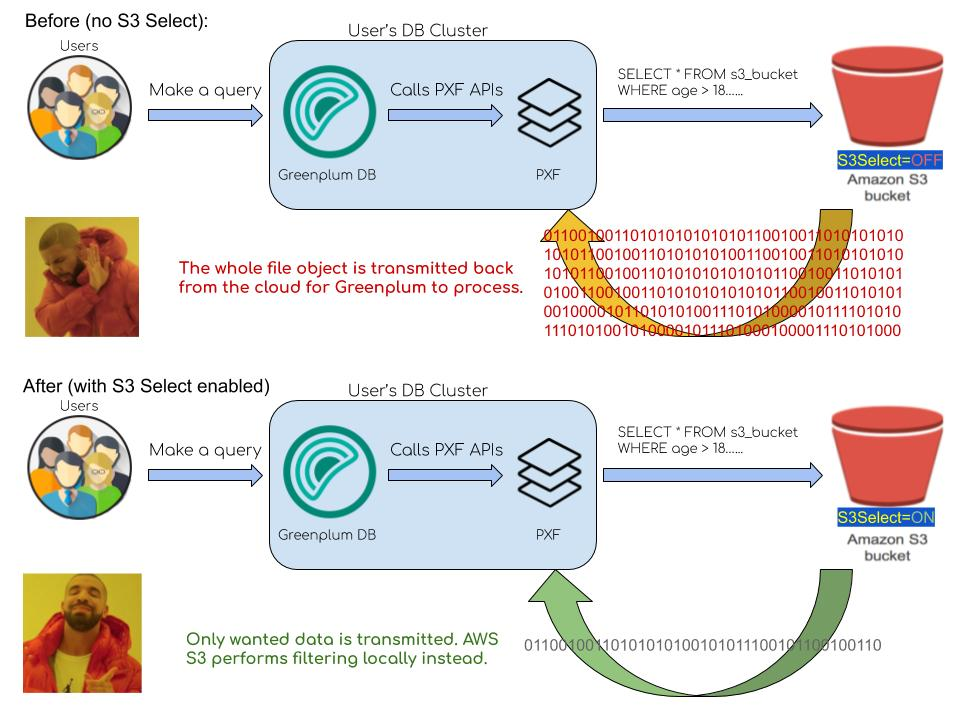
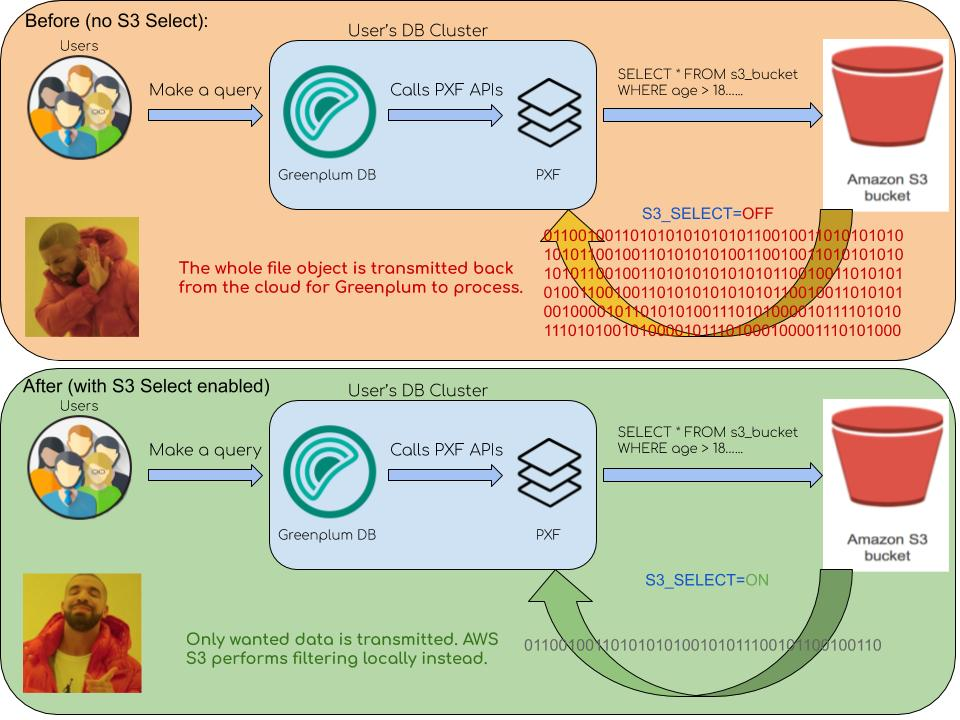
address team feedback for S3 blog on Aug 2

diff --git a/content/post/s3select.md b/content/post/s3select.md
@@ -62,40 +62,91 @@ Once GPDB and PXF are properly configured and running, users can go into Greenpl
 Now under GPDB's command line shell, users can create external tables to access files on S3 object store by providing external table definition and specifying options to enable S3 Select. Here is an example of creating an external table: 
 ```SQL
 CREATE EXTERNAL TABLE orders_from_s3 (id int, name text)
-LOCATION ('pxf://bucket-name/path/in/s3/?PROFILE=s3:parquet&s3_select=ON&SERVER=s3')
+LOCATION ('pxf://bucket-name/path/in/s3/?PROFILE=s3:parquet&S3_SELECT=ON&SERVER=s3')
 FORMAT 'CSV';
 ```
 In above SQL string,
 
 - `CREATE EXTERNAL TABLE orders_from_s3` tells GPDB to create an external table named `orders_from_s3`
 - `(id int, name text)` is the schema of this table
-- `LOCATION ('pxf://bucket-name/path/in/s3/?PROFILE=s3:parquet&s3_select=ON&SERVER=s3')` provides information to GPDB such as:
+- `LOCATION ('pxf://bucket-name/path/in/s3/?PROFILE=s3:parquet&S3_SELECT=ON&SERVER=s3')` provides information to GPDB such as:
   - the protocol `pxf`, 
   - path of the file object on S3 `bucket-name/path/in/s3/`, 
-  - options that PXF needs to process the queries to S3 `?PROFILE=s3:parquet&s3_select=ON&SERVER=s3'`. 
+  - options that PXF needs to process the queries to S3 `?PROFILE=s3:parquet&S3_SELECT=ON&SERVER=s3'`. 
 
-Note: here `s3_select=ON` is the option to enable the S3 Select feature through PXF. Click [here](https://gpdb.docs.pivotal.io/latest/pxf/objstore_text.html#profile_text) for more detail on creating external table to read data in an object store. 
+Note: here `S3_SELECT=ON` is the option to enable the S3 Select feature through PXF. Click [here](https://gpdb.docs.pivotal.io/latest/pxf/objstore_text.html#profile_text) for more detail on creating external table to read data in an object store. 
 
 Now you can make simple SQL queries to your S3 object store and test out S3 Select. For example:
 ```sql
-pxfautomation=# SELECT id, name, FROM orders_from_s3 WHERE id = 3;
+SELECT id, name, FROM orders_from_s3 WHERE id = 3;
 ```
 Here `WHERE id = 3` is the filter clause that PXF will recognize and passing to S3 to utilize S3 Select.
 
 On the other hand, queries like this:
 ```sql
-pxfautomation=# SELECT * FROM orders_from_s3;
+SELECT * FROM orders_from_s3;
 ```
 will not be able to utilize S3 Select as it asks S3 to return all the data.
 
 ## **Performance Comparison**
 {{< responsive-figure src="/images/s3-select/benchmark.png" class="center" >}}
 
-The graph above indicates the results of queries made towards Amazon S3 object store with and without S3 Select feature in effect, for multiple object files of different sizes. The time for each file size is the average number of time results from running the same query multiple times. 
+The graph above indicates the results of queries made towards Amazon S3 object store with and without S3 Select feature in effect, for multiple object files with different sizes. The time consumed to complete query against each file is the average of results from running the same query multiple times. 
 
-It is worth noting that, for queries without S3 Select, the time spent for each of them are quite consistent. While the ones with S3 Select enabled can have a slower performance (comparing to the same query running at later time), the same query gets faster constantly after the first time. This is due to the caching from the S3 store side.
+We created a local table with the following schema:
 
-The benchmarking took place on a cloud cluster of GPDB with 16 segment nodes. For smaller files ranging from 10MB to 5GB, S3 Select did not show significant improvement of query speed as multiple segment nodes helped queries without S3 Select load faster in parallel. Queries showed better performance with S3 Select enabled starting from file size around 50GB. 
+```SQL
+CREATE TABLE lineitem (
+    l_orderkey    BIGINT NOT NULL,
+    l_partkey     BIGINT NOT NULL,
+    l_suppkey     BIGINT NOT NULL,
+    l_linenumber  BIGINT NOT NULL,
+    l_quantity    DECIMAL(15,2) NOT NULL,
+    l_extendedprice  DECIMAL(15,2) NOT NULL,
+    l_discount    DECIMAL(15,2) NOT NULL,
+    l_tax         DECIMAL(15,2) NOT NULL,
+    l_returnflag  CHAR(1) NOT NULL,
+    l_linestatus  CHAR(1) NOT NULL,
+    l_shipdate    DATE NOT NULL,
+    l_commitdate  DATE NOT NULL,
+    l_receiptdate DATE NOT NULL,
+    l_shipinstruct CHAR(25) NOT NULL,
+    l_shipmode     CHAR(10) NOT NULL,
+    l_comment VARCHAR(44) NOT NULL
+) DISTRIBUTED BY (l_partkey);
+```
+
+Then we create different external tables referring to files of different sizes on the S3 store using SQL strings like this:
+
+```SQL
+CREATE EXTERNAL TABLE s3_parquet_no_select (LIKE lineitem)
+LOCATION ('pxf://your/own/s3/file/path/sample.parquet?PROFILE=s3:parquet&SERVER=s3')
+FORMAT 'CSV';
+
+CREATE EXTERNAL TABLE s3_parquet_with_select (LIKE lineitem)
+LOCATION ('pxf://your/own/s3/file/path/sample.parquet?PROFILE=s3:parquet&SERVER=s3&S3_SELECT=ON')
+FORMAT 'CSV';
+```
+
+Finally we use the following SQL string to query against these external tables:
+```SQL
+\timing
+SELECT l_orderkey, l_partkey, l_linenumber FROM s3_parquet_no_select WHERE l_orderkey = 3 and l_partkey = 42970;
+SELECT l_orderkey, l_partkey, l_linenumber FROM s3_parquet_with_select WHERE l_orderkey = 3 and l_partkey = 42970;
+...
+```
+
+It is worth noting that, for queries without S3 Select, the time spent for these files of different sizes are quite consistent. While the queries with S3 Select enabled can have a relatively slower performance for the first time (comparing itself on the same query running at a later time). The same query gets constantly faster after the first time. This is due to the caching from the S3 store side.
+
+The benchmarking took place on a GPDB cluster with 16 segment nodes on the cloud. Therefore, the performance may vary comparing to your deployment. It will be affected by many factors such as different simple SQL queries, network speed, bandwidth, and GPDB's cluster configuration (like how many segment nodes been deployed and so on).
+
+For example, although the following query is against an external table with S3 Select enabled, due to the lack of predicates, column projection, and/or the [LIMIT clause](https://docs.aws.amazon.com/AmazonS3/latest/dev/s3-glacier-select-sql-reference-select.html), S3 will still return the data of the whole file to GPDB.
+
+```SQL
+SELECT * FROM s3_parquet_with_select;
+```
+
+For smaller files ranging from 10MB to 5GB, S3 Select under our benchmark setting did not show significant improvement of query speed as multiple segment nodes helped queries without S3 Select load faster in parallel. Queries showed better performance with S3 Select enabled starting from file size around 50GB. 
 
 ## **Conclusion**
 The query speed improved depending on the size of the object file stored on S3. The larger the file size, the more drastic improvement in query speed will occur with the SQL queries structured properly (with column projection and/or filters) and with S3 Select enabled. Even though the improvement of performance is not obvious with smaller sized files on S3, it is still worth having S3 Select in effect whenever a SQL query is deemed as beneficial by PXF, because the amount of data transmitted between S3 stores and GPDB is also reduced.
